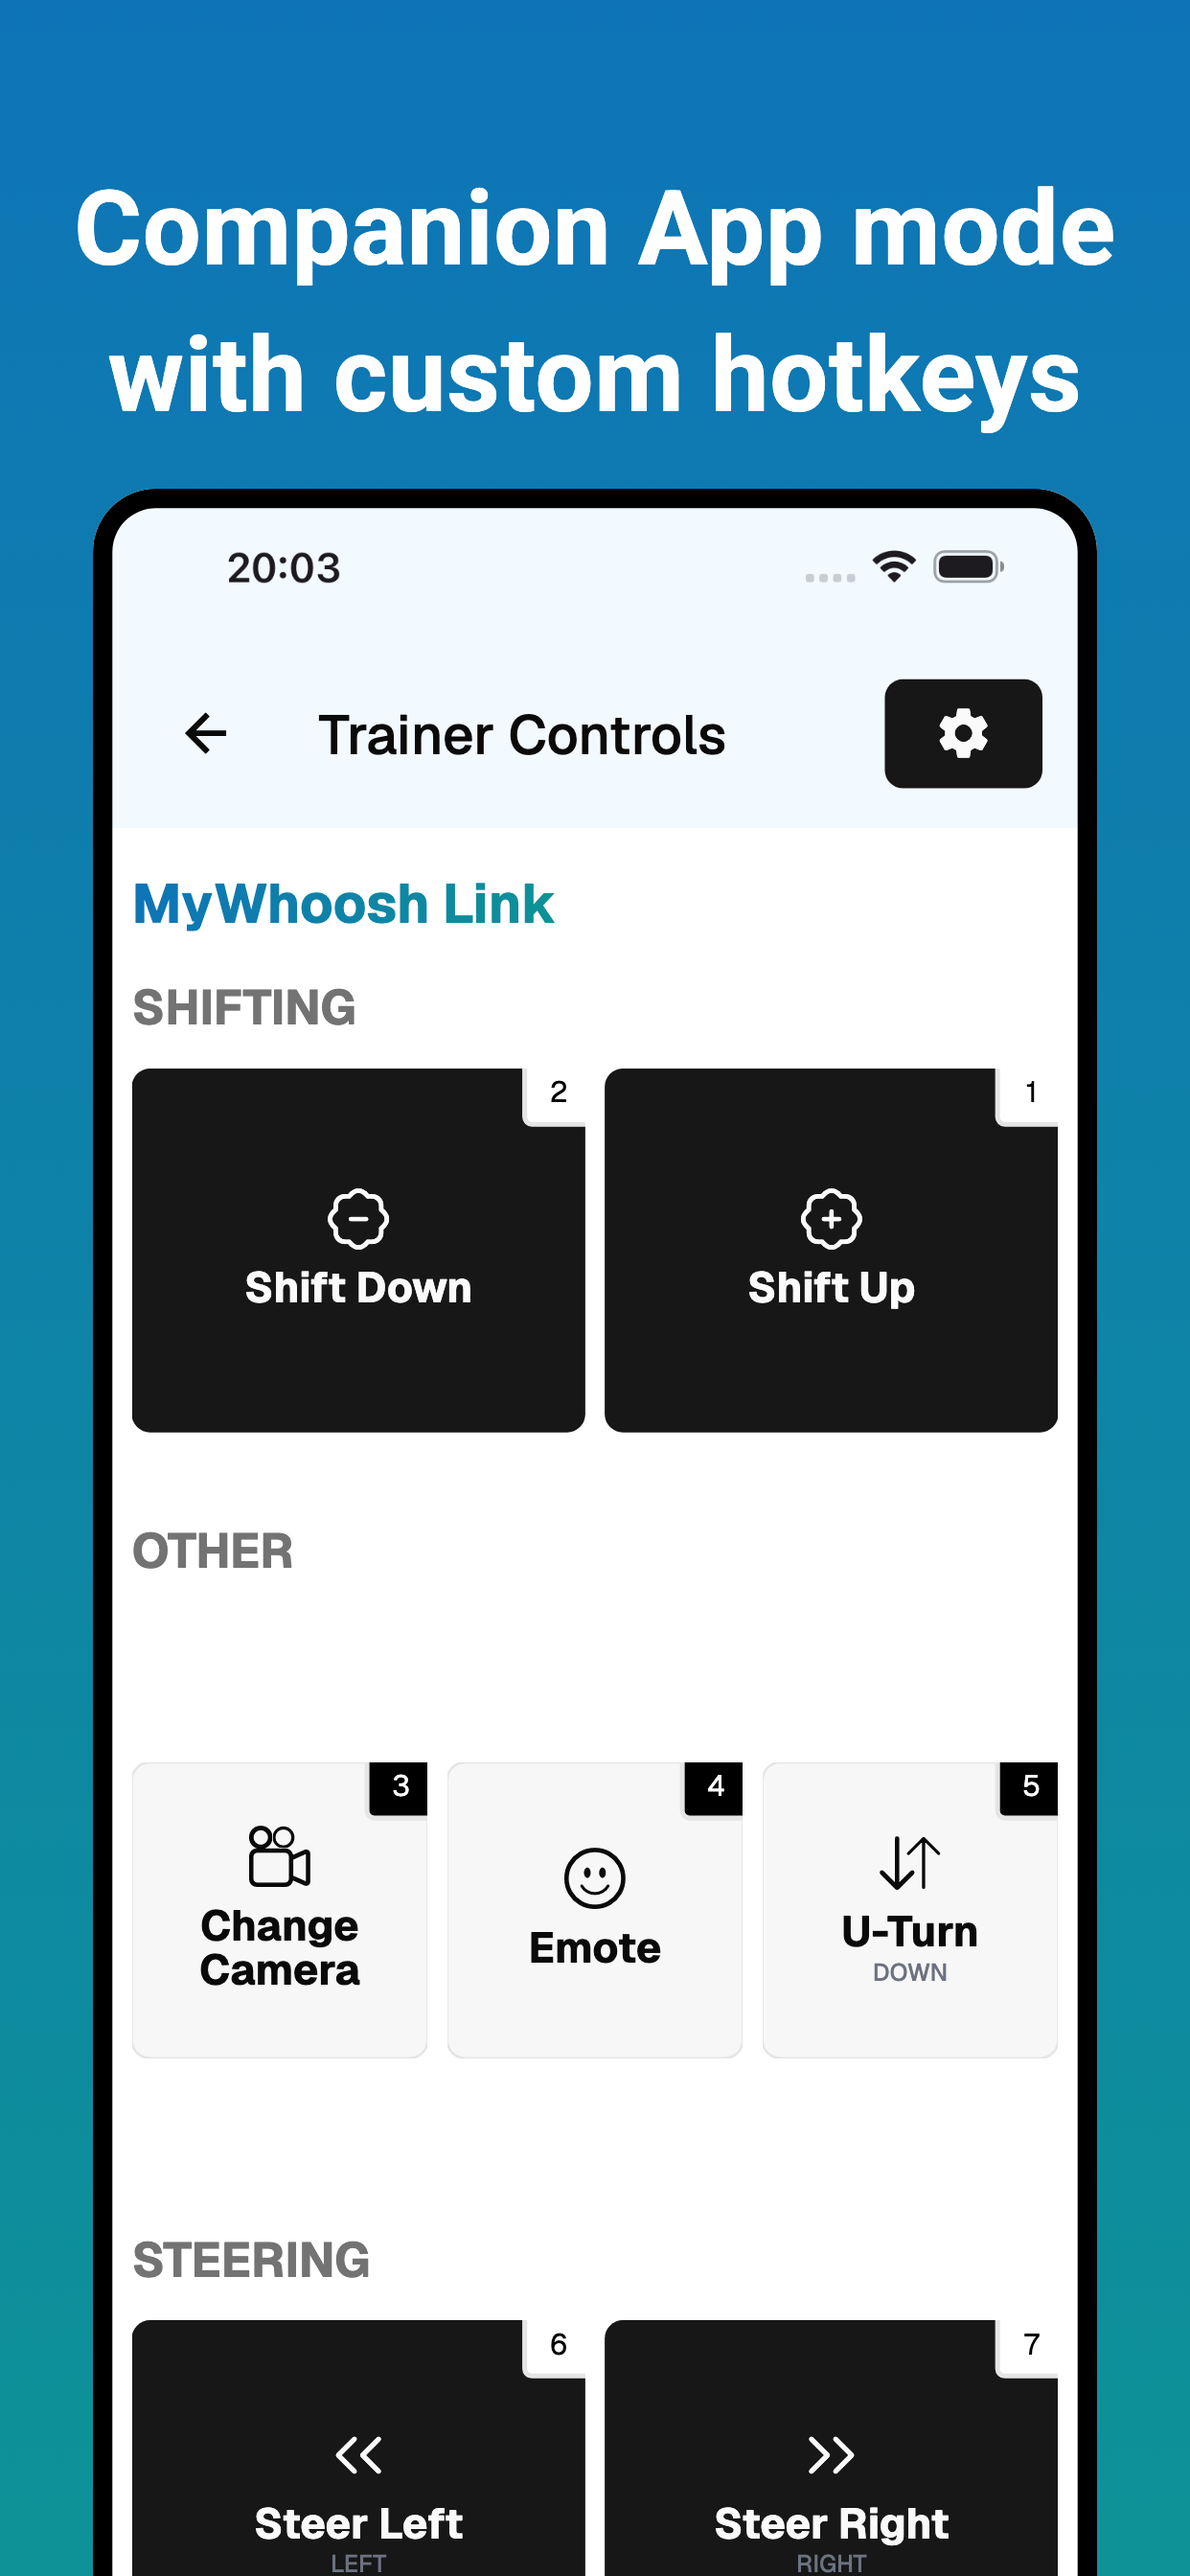
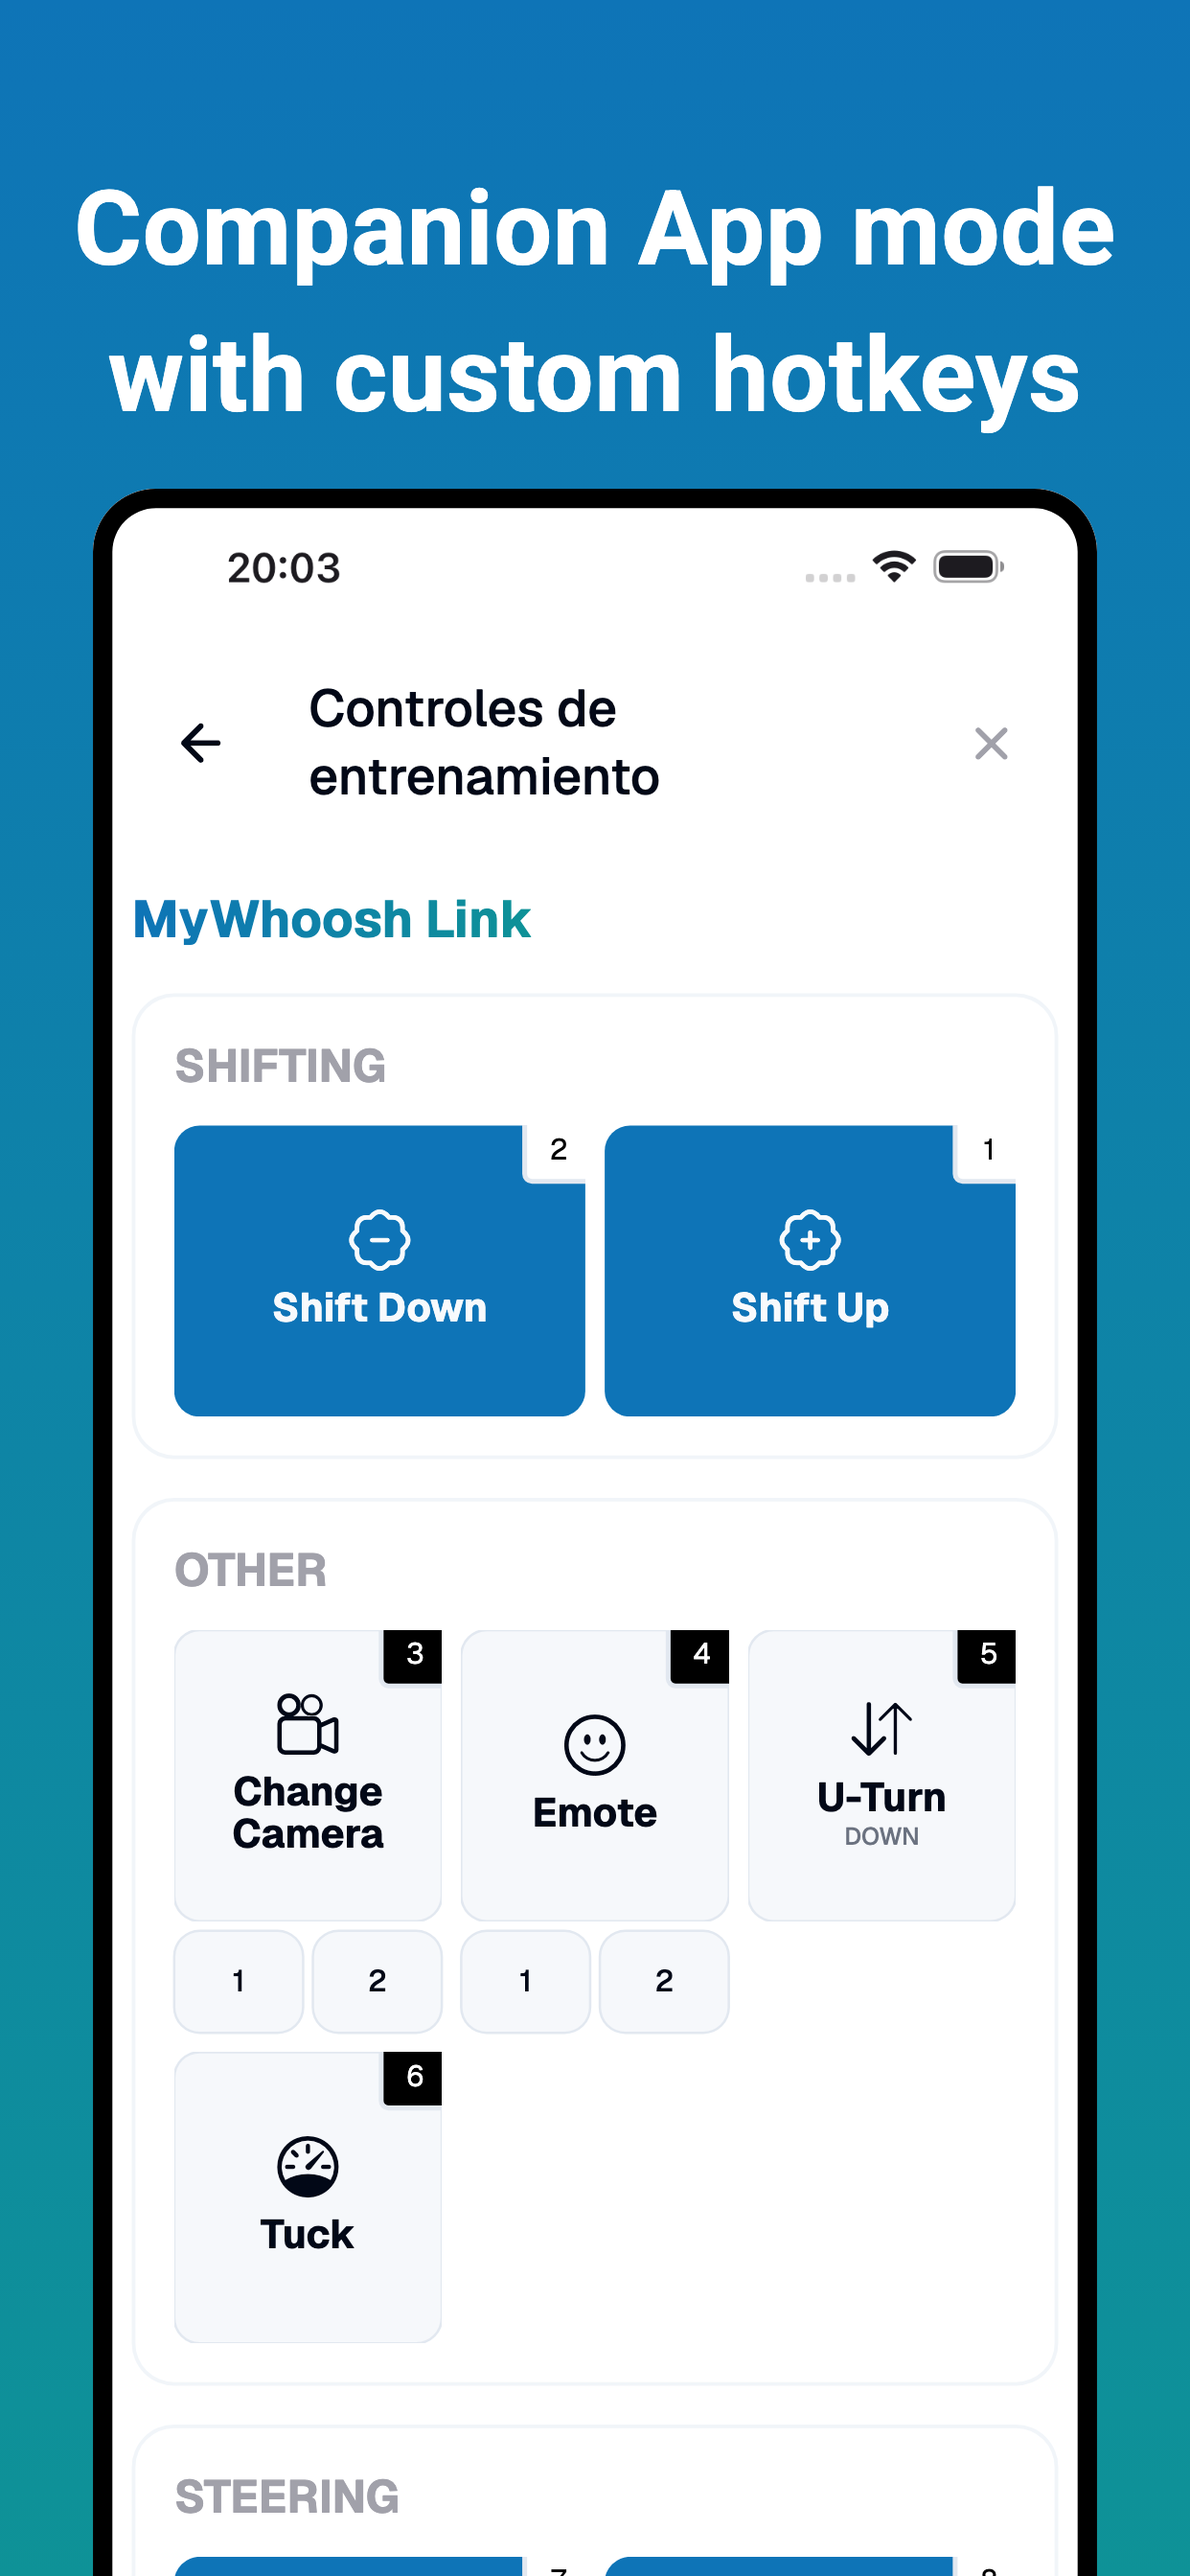
translations

diff --git a/test/screenshot_test.dart b/test/screenshot_test.dart
@@ -1,7 +1,8 @@
 import 'package:bike_control/bluetooth/devices/zwift/zwift_ride.dart';
 import 'package:bike_control/main.dart';
 import 'package:bike_control/pages/button_simulator.dart';
-import 'package:bike_control/pages/navigation.dart';
+import 'package:bike_control/pages/controller_settings.dart';
+import 'package:bike_control/pages/trainer_connection_settings.dart';
 import 'package:bike_control/utils/core.dart' show core;
 import 'package:bike_control/utils/iap/iap_manager.dart';
 import 'package:bike_control/utils/keymap/apps/my_whoosh.dart';
@@ -49,17 +50,18 @@ Future<void> main() async {
   core.settings.setKeyMap(MyWhoosh());
   core.settings.setLastTarget(Target.thisDevice);
 
-  core.connection.addDevices([
-    ZwiftRide(
-        BleDevice(
-          name: 'Controller',
-          deviceId: '00:11:22:33:44:55',
-        ),
-      )
-      ..firmwareVersion = '1.2.0'
-      ..rssi = -51
-      ..batteryLevel = 81,
-  ]);
+  final device =
+      ZwiftRide(
+          BleDevice(
+            name: 'Controller',
+            deviceId: '00:11:22:33:44:55',
+          ),
+        )
+        ..firmwareVersion = '1.2.0'
+        ..isConnected = true
+        ..rssi = -51
+        ..batteryLevel = 81;
+  core.connection.addDevices([device]);
 
   final List<({DeviceType type, TargetPlatform platform, Size size})> sizes = [
     (type: DeviceType.android, platform: TargetPlatform.android, size: Size(1320, 2868)),
@@ -99,9 +101,7 @@ Future<void> main() async {
                   child: child,
                 ),
           ),
-          home: BikeControlApp(
-            page: BCPage.devices,
-          ),
+          home: BikeControlApp(),
         ),
       );
 
@@ -131,7 +131,7 @@ Future<void> main() async {
                 ),
           ),
           home: BikeControlApp(
-            page: BCPage.devices,
+            customChild: ControllerSettingsPage(device: device),
           ),
         ),
       );
@@ -170,7 +170,7 @@ Future<void> main() async {
                 ),
           ),
           home: BikeControlApp(
-            page: BCPage.trainer,
+            customChild: TrainerConnectionSettingsPage(),
           ),
         ),
       );
@@ -210,7 +210,7 @@ Future<void> main() async {
                 ),
           ),
           home: BikeControlApp(
-            page: BCPage.customization,
+            customChild: ControllerSettingsPage(device: device),
           ),
         ),
       );

diff --git a/test/custom_profile_test.dart b/test/custom_profile_test.dart
@@ -1,11 +1,15 @@
+import 'dart:ui';
+
+import 'package:bike_control/gen/l10n.dart';
 import 'package:bike_control/utils/core.dart';
 import 'package:bike_control/utils/keymap/apps/custom_app.dart';
-import 'package:bike_control/utils/settings/settings.dart';
 import 'package:flutter_secure_storage/flutter_secure_storage.dart';
 import 'package:flutter_test/flutter_test.dart';
 import 'package:shared_preferences/shared_preferences.dart';
 
-void main() {
+Future<void> main() async {
+  await AppLocalizations.load(Locale('en'));
+
   group('Custom Profile Tests', () {
     setUp(() async {
       // Initialize SharedPreferences with in-memory storage for testing
@@ -74,22 +78,6 @@ void main() {
 
       profiles = core.settings.getCustomAppProfiles();
       expect(profiles.contains('ToDelete'), false);
-    });
-
-    test('Should not duplicate migration if already migrated', () async {
-      SharedPreferences.setMockInitialValues({
-        'customapp': ['old_data'],
-        'customapp_Custom': ['new_data'],
-        'app': 'Custom',
-      });
-
-      final newSettings = Settings();
-      await newSettings.init();
-
-      // Old key should still exist because new key already existed
-      expect(newSettings.getCustomAppKeymap('customapp'), null);
-      final customKeymap = newSettings.getCustomAppKeymap('Custom');
-      expect(customKeymap, isNotNull);
     });
 
     test('Should export custom profile as JSON', () async {

diff --git a/test/base_device_long_press_behavior_test.dart b/test/base_device_long_press_behavior_test.dart
@@ -1,4 +1,5 @@
 import 'package:bike_control/bluetooth/devices/base_device.dart';
+import 'package:bike_control/gen/l10n.dart';
 import 'package:bike_control/utils/actions/base_actions.dart';
 import 'package:bike_control/utils/core.dart';
 import 'package:bike_control/utils/keymap/apps/custom_app.dart';
@@ -7,8 +8,10 @@ import 'package:bike_control/utils/keymap/keymap.dart';
 import 'package:flutter/material.dart';
 import 'package:flutter_test/flutter_test.dart';
 
-void main() {
+Future<void> main() async {
   const testButton = ControllerButton('testButton');
+
+  await AppLocalizations.load(Locale('en'));
 
   CustomApp buildApp({
     required bool hasSingle,
@@ -123,7 +126,4 @@ class _TestDevice extends BaseDevice {
 
   @override
   Future<void> connect() async {}
-
-  @override
-  Widget showInformation(BuildContext context) => const SizedBox.shrink();
 }

diff --git a/lib/widgets/iap_status_widget.dart b/lib/widgets/iap_status_widget.dart
@@ -180,8 +180,7 @@ class _IAPStatusWidgetState extends State<IAPStatusWidget> {
                                     });
                                     final redeemed = await _redeemPurchase(
                                       purchaseId: purchaseId,
-                                      supabaseAnonKey:
-                                          'eyJhbGciOiJIUzI1NiIsInR5cCI6IkpXVCJ9.eyJpc3MiOiJzdXBhYmFzZSIsInJlZiI6InBpa3JjeXlub3Zkdm9ncmxkZm53Iiwicm9sZSI6ImFub24iLCJpYXQiOjE3NjYwNjMyMzksImV4cCI6MjA4MTYzOTIzOX0.oxJovYahRiZ6XvCVR-qww6OQ5jY6cjOyUiFHJsW9MVk',
+                                      supabaseAnonKey: const String.fromEnvironment('SUPABASE_ANON_KEY'),
                                       supabaseUrl: 'https://pikrcyynovdvogrldfnw.supabase.co',
                                     );
                                     if (redeemed) {

diff --git a/test/modifier_keys_test.dart b/test/modifier_keys_test.dart
@@ -1,4 +1,7 @@
+import 'dart:ui';
+
 import 'package:bike_control/bluetooth/devices/zwift/constants.dart';
+import 'package:bike_control/gen/l10n.dart';
 import 'package:bike_control/main.dart';
 import 'package:bike_control/utils/core.dart';
 import 'package:bike_control/utils/keymap/apps/my_whoosh.dart';
@@ -10,6 +13,7 @@ import 'package:flutter_test/flutter_test.dart';
 import 'package:shared_preferences/shared_preferences.dart';
 
 Future<void> main() async {
+  await AppLocalizations.load(Locale('en'));
   FlutterSecureStorage.setMockInitialValues({});
   SharedPreferences.setMockInitialValues({});
   screenshotMode = true;
